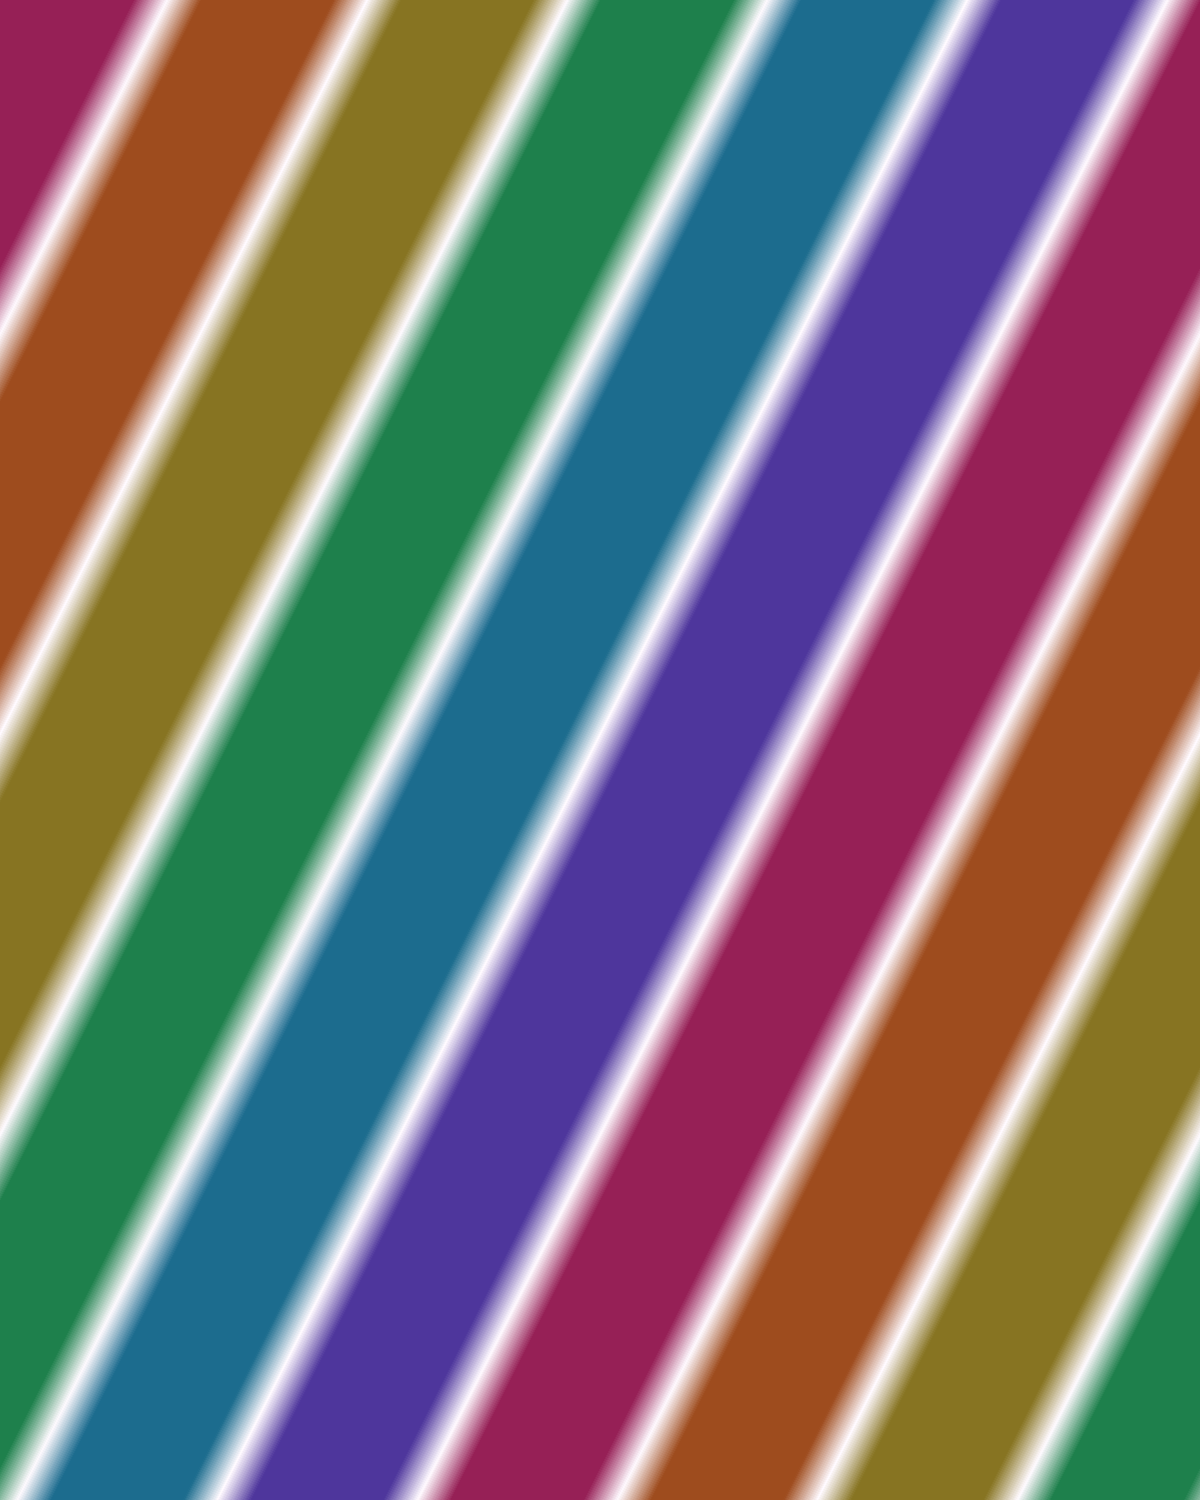
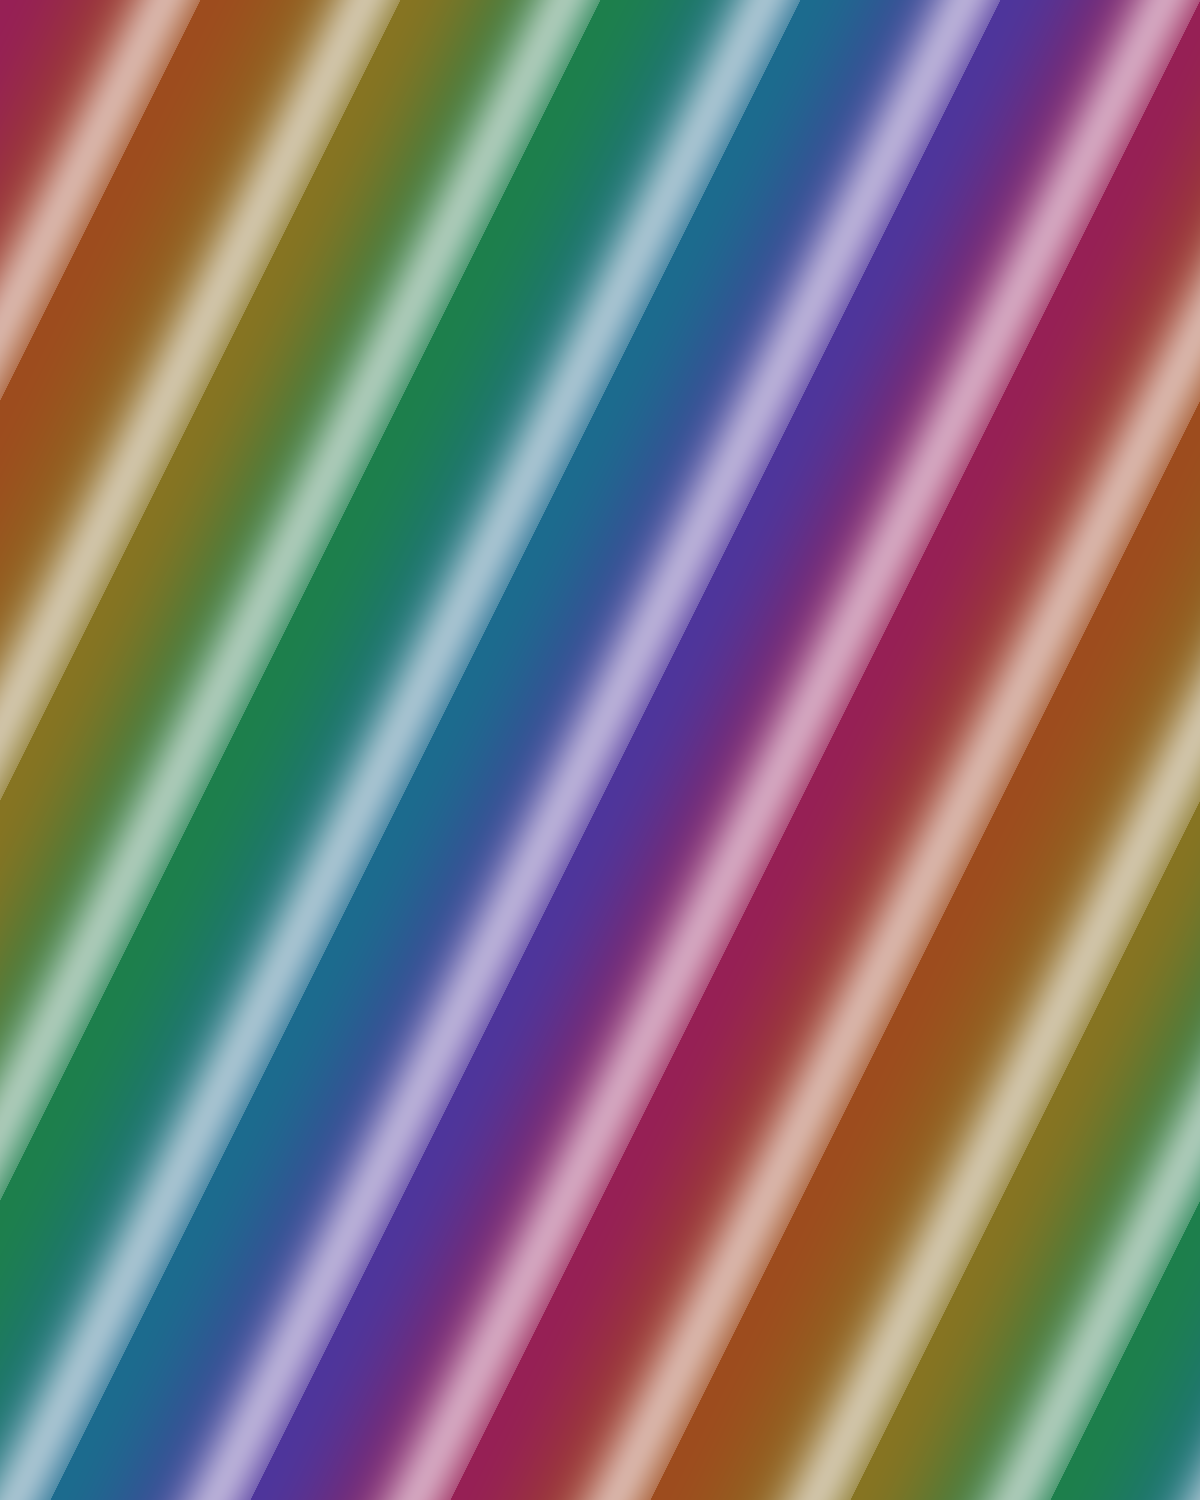
Restore sweeping per-seal color pattern with soft fuzzy light lines

diff --git a/src/App.jsx b/src/App.jsx
@@ -82,7 +82,7 @@ function App() {
     let tiltY = 0; // (หน้า-หลัง)
     let smX = 0; // smooth tilt
     let smY = 0;
-    let hue = 0; // สีหมุนพร้อมกันทุกตรา
+    let sweep = 0; // เลื่อนลายโฮโลแกรมต่อเนื่อง
     let raf = 0;
 
     const onOrient = (event) => {
@@ -98,14 +98,13 @@ function App() {
     };
 
     const loop = () => {
-      hue += 0.5; // สีไหลหมุนต่อเนื่อง (ทุกตราพร้อมกัน)
+      sweep += 0.38; // ลายเลื่อนกวาดต่อเนื่อง (เส้นแสง+สีไหลผ่านเนียนๆ)
       smX += (tiltX - smX) * 0.07; // lerp ให้เนียน
       smY += (tiltY - smY) * 0.07;
-      const h = hue + smX * 1.6 + smY * 0.9; // เอียงเร่ง/เลื่อนสี
-      root.style.setProperty("--holo-hue", `${h}deg`);
-      // แสงนุ่มพีคตอนเปลี่ยนสี (เนียน ไม่เป็นเส้นลากผ่าน)
-      const bright = 0.72 + 0.32 * (0.5 + 0.5 * Math.sin(h * (Math.PI / 55)));
-      root.style.setProperty("--holo-bright", bright.toFixed(3));
+      const x = (((sweep + smX) % 62) + 62) % 62; // วน 0-62% ไร้รอยต่อ
+      const y = clamp(50 + smY * 0.4, 14, 86);
+      root.style.setProperty("--holo-x", `${x}%`);
+      root.style.setProperty("--holo-y", `${y}%`);
       raf = window.requestAnimationFrame(loop);
     };
     loop();

diff --git a/src/App.css b/src/App.css
@@ -705,9 +705,13 @@ a {
   pointer-events: none;
   backface-visibility: hidden;
   -webkit-backface-visibility: hidden;
-  background: url("/assets/seals-color.png") center / 100% 100% no-repeat;
-  filter: saturate(1.9) contrast(1.28) brightness(var(--holo-bright, 0.85))
-    hue-rotate(var(--holo-hue, 0deg));
+  -webkit-mask: url("/assets/seals-mask.png") center / 100% 100% no-repeat;
+  mask: url("/assets/seals-mask.png") center / 100% 100% no-repeat;
+  background-image: url("/assets/holo-pattern.png");
+  background-repeat: repeat-x;
+  background-size: 62% 120%;
+  background-position: var(--holo-x, 0%) var(--holo-y, 50%);
+  filter: saturate(1.55) contrast(1.2) brightness(0.9);
   opacity: 0.5;
 }
 